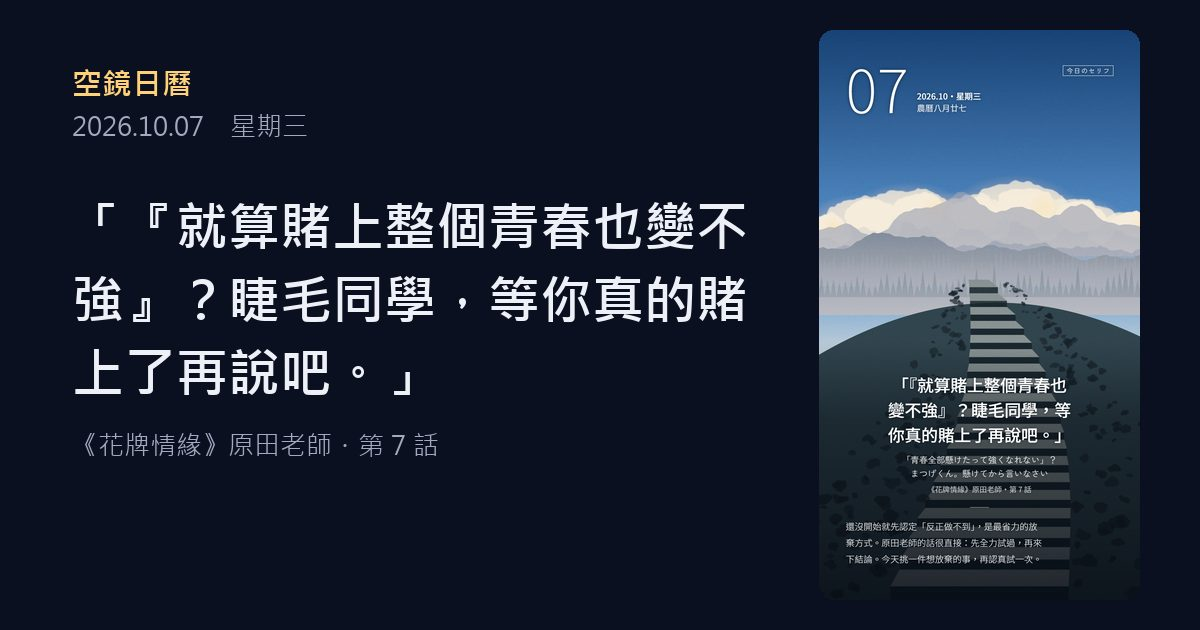
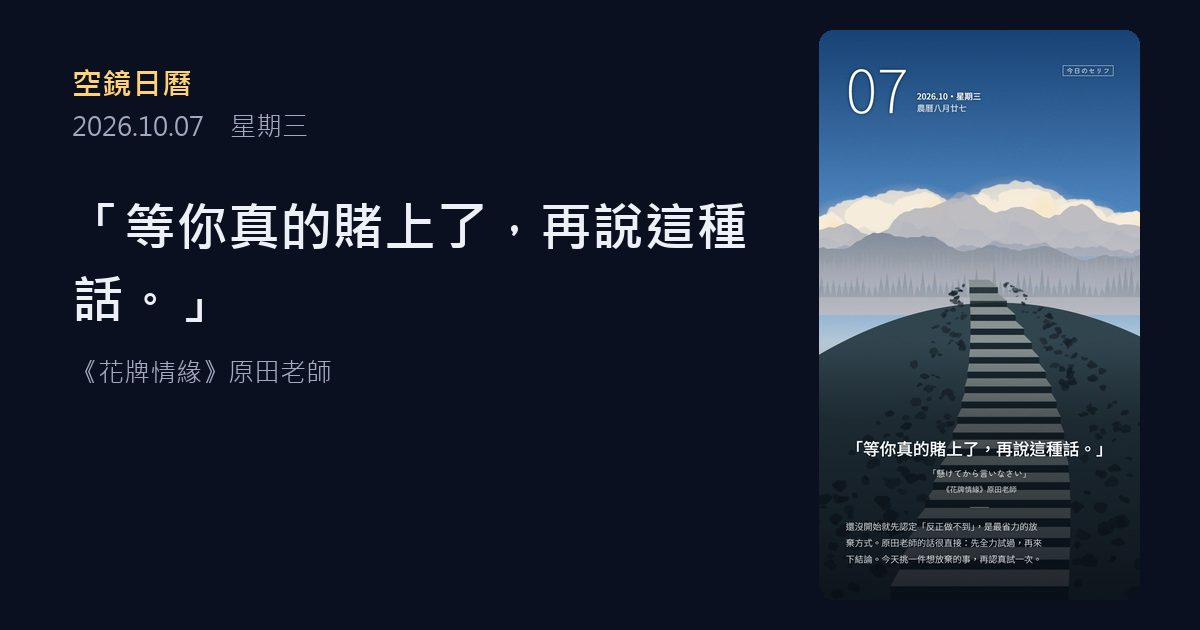
其他出處 58 則上網查證：修正 5 則（話數、漏字、兩人台詞），1 則只留查證得到的部分，補 5 則話數

diff --git a/d/20270115.html b/d/20270115.html
@@ -4,11 +4,11 @@
 <meta charset="utf-8">
 <meta name="viewport" content="width=device-width, initial-scale=1">
 <title>空鏡日曆・1月15日</title>
-<meta name="description" content="「我不會一直喊『不是那邊、不是那邊』，而是一直喊『這邊、這邊』。」── 《ARIA（水星領航員）》艾莉西亞">
+<meta name="description" content="「我不會一直喊『不是那邊、不是那邊』，而是一直喊『這邊、這邊』。」── 《ARIA（水星領航員）》艾莉西亞・ARIA The ORIGINATION 第 6 話">
 <meta property="og:type" content="article">
 <meta property="og:site_name" content="空鏡日曆">
 <meta property="og:title" content="空鏡日曆・1月15日">
-<meta property="og:description" content="「我不會一直喊『不是那邊、不是那邊』，而是一直喊『這邊、這邊』。」── 《ARIA（水星領航員）》艾莉西亞">
+<meta property="og:description" content="「我不會一直喊『不是那邊、不是那邊』，而是一直喊『這邊、這邊』。」── 《ARIA（水星領航員）》艾莉西亞・ARIA The ORIGINATION 第 6 話">
 <meta property="og:url" content="https://eaglechu-hub.github.io/anime-quote-calendar/d/20270115.html">
 <meta property="og:image" content="https://eaglechu-hub.github.io/anime-quote-calendar/og/20270115.jpg">
 <meta property="og:image:width" content="1200">

diff --git a/d/20261022.html b/d/20261022.html
@@ -4,11 +4,11 @@
 <meta charset="utf-8">
 <meta name="viewport" content="width=device-width, initial-scale=1">
 <title>空鏡日曆・10月22日</title>
-<meta name="description" content="「一個人撐不下去的時候，就去依靠別人。不然，其實也沒有人能依靠你。」── 《3月的獅子》林田老師・第 27 話">
+<meta name="description" content="「一個人撐不下去的時候，就去依靠別人。不然，其實也沒有人能依靠你。」── 《3月的獅子》林田老師・第 16 話">
 <meta property="og:type" content="article">
 <meta property="og:site_name" content="空鏡日曆">
 <meta property="og:title" content="空鏡日曆・10月22日">
-<meta property="og:description" content="「一個人撐不下去的時候，就去依靠別人。不然，其實也沒有人能依靠你。」── 《3月的獅子》林田老師・第 27 話">
+<meta property="og:description" content="「一個人撐不下去的時候，就去依靠別人。不然，其實也沒有人能依靠你。」── 《3月的獅子》林田老師・第 16 話">
 <meta property="og:url" content="https://eaglechu-hub.github.io/anime-quote-calendar/d/20261022.html">
 <meta property="og:image" content="https://eaglechu-hub.github.io/anime-quote-calendar/og/20261022.jpg">
 <meta property="og:image:width" content="1200">

diff --git a/d/20261130.html b/d/20261130.html
@@ -4,11 +4,11 @@
 <meta charset="utf-8">
 <meta name="viewport" content="width=device-width, initial-scale=1">
 <title>空鏡日曆・11月30日</title>
-<meta name="description" content="「一急就會很快累壞喔。比起趕路，守住自己的步調更重要。」── 《前進吧！登山少女》倉上日向">
+<meta name="description" content="「一急就會很快累壞喔。比起趕路，守住自己的步調更重要。」── 《前進吧！登山少女》倉上日向・第 1 季 第 8 話">
 <meta property="og:type" content="article">
 <meta property="og:site_name" content="空鏡日曆">
 <meta property="og:title" content="空鏡日曆・11月30日">
-<meta property="og:description" content="「一急就會很快累壞喔。比起趕路，守住自己的步調更重要。」── 《前進吧！登山少女》倉上日向">
+<meta property="og:description" content="「一急就會很快累壞喔。比起趕路，守住自己的步調更重要。」── 《前進吧！登山少女》倉上日向・第 1 季 第 8 話">
 <meta property="og:url" content="https://eaglechu-hub.github.io/anime-quote-calendar/d/20261130.html">
 <meta property="og:image" content="https://eaglechu-hub.github.io/anime-quote-calendar/og/20261130.jpg">
 <meta property="og:image:width" content="1200">

diff --git a/d/20261122.html b/d/20261122.html
@@ -4,11 +4,11 @@
 <meta charset="utf-8">
 <meta name="viewport" content="width=device-width, initial-scale=1">
 <title>空鏡日曆・11月22日</title>
-<meta name="description" content="「我們總有一天能再一起看櫻花。我和他都毫不懷疑地這麼相信著。」── 《秒速5公分》篠原明里">
+<meta name="description" content="「我們總有一天能再一起看櫻花。我和他都毫不懷疑地這麼相信著。」── 《秒速5公分》遠野貴樹、篠原明里">
 <meta property="og:type" content="article">
 <meta property="og:site_name" content="空鏡日曆">
 <meta property="og:title" content="空鏡日曆・11月22日">
-<meta property="og:description" content="「我們總有一天能再一起看櫻花。我和他都毫不懷疑地這麼相信著。」── 《秒速5公分》篠原明里">
+<meta property="og:description" content="「我們總有一天能再一起看櫻花。我和他都毫不懷疑地這麼相信著。」── 《秒速5公分》遠野貴樹、篠原明里">
 <meta property="og:url" content="https://eaglechu-hub.github.io/anime-quote-calendar/d/20261122.html">
 <meta property="og:image" content="https://eaglechu-hub.github.io/anime-quote-calendar/og/20261122.jpg">
 <meta property="og:image:width" content="1200">

diff --git a/d/20261117.html b/d/20261117.html
@@ -4,11 +4,11 @@
 <meta charset="utf-8">
 <meta name="viewport" content="width=device-width, initial-scale=1">
 <title>空鏡日曆・11月17日</title>
-<meta name="description" content="「如果戀愛能讓女人變美，那它究竟是什麼樣的藥呢？」── 《藥師少女的獨語》貓貓・第 4 話">
+<meta name="description" content="「如果戀愛能讓女人變美，那它究竟是什麼樣的藥呢？」── 《藥師少女的獨語》貓貓・第 3 話">
 <meta property="og:type" content="article">
 <meta property="og:site_name" content="空鏡日曆">
 <meta property="og:title" content="空鏡日曆・11月17日">
-<meta property="og:description" content="「如果戀愛能讓女人變美，那它究竟是什麼樣的藥呢？」── 《藥師少女的獨語》貓貓・第 4 話">
+<meta property="og:description" content="「如果戀愛能讓女人變美，那它究竟是什麼樣的藥呢？」── 《藥師少女的獨語》貓貓・第 3 話">
 <meta property="og:url" content="https://eaglechu-hub.github.io/anime-quote-calendar/d/20261117.html">
 <meta property="og:image" content="https://eaglechu-hub.github.io/anime-quote-calendar/og/20261117.jpg">
 <meta property="og:image:width" content="1200">

diff --git a/d/20270118.html b/d/20270118.html
@@ -4,11 +4,11 @@
 <meta charset="utf-8">
 <meta name="viewport" content="width=device-width, initial-scale=1">
 <title>空鏡日曆・1月18日</title>
-<meta name="description" content="「這樣的奇蹟，大概一輩子不會再有了。絕對不能浪費！」── 《孤獨搖滾！》後藤一里">
+<meta name="description" content="「這樣的奇蹟，大概一輩子不會再有了。絕對不能浪費！」── 《孤獨搖滾！》後藤一里・第 1 話">
 <meta property="og:type" content="article">
 <meta property="og:site_name" content="空鏡日曆">
 <meta property="og:title" content="空鏡日曆・1月18日">
-<meta property="og:description" content="「這樣的奇蹟，大概一輩子不會再有了。絕對不能浪費！」── 《孤獨搖滾！》後藤一里">
+<meta property="og:description" content="「這樣的奇蹟，大概一輩子不會再有了。絕對不能浪費！」── 《孤獨搖滾！》後藤一里・第 1 話">
 <meta property="og:url" content="https://eaglechu-hub.github.io/anime-quote-calendar/d/20270118.html">
 <meta property="og:image" content="https://eaglechu-hub.github.io/anime-quote-calendar/og/20270118.jpg">
 <meta property="og:image:width" content="1200">

diff --git a/d/20261007.html b/d/20261007.html
@@ -4,11 +4,11 @@
 <meta charset="utf-8">
 <meta name="viewport" content="width=device-width, initial-scale=1">
 <title>空鏡日曆・10月7日</title>
-<meta name="description" content="「『就算賭上整個青春也變不強』？睫毛同學，等你真的賭上了再說吧。」── 《花牌情緣》原田老師・第 7 話">
+<meta name="description" content="「等你真的賭上了，再說這種話。」── 《花牌情緣》原田老師">
 <meta property="og:type" content="article">
 <meta property="og:site_name" content="空鏡日曆">
 <meta property="og:title" content="空鏡日曆・10月7日">
-<meta property="og:description" content="「『就算賭上整個青春也變不強』？睫毛同學，等你真的賭上了再說吧。」── 《花牌情緣》原田老師・第 7 話">
+<meta property="og:description" content="「等你真的賭上了，再說這種話。」── 《花牌情緣》原田老師">
 <meta property="og:url" content="https://eaglechu-hub.github.io/anime-quote-calendar/d/20261007.html">
 <meta property="og:image" content="https://eaglechu-hub.github.io/anime-quote-calendar/og/20261007.jpg">
 <meta property="og:image:width" content="1200">

diff --git a/d/20261001.html b/d/20261001.html
@@ -4,11 +4,11 @@
 <meta charset="utf-8">
 <meta name="viewport" content="width=device-width, initial-scale=1">
 <title>空鏡日曆・10月1日</title>
-<meta name="description" content="「你可以成為英雄。」── 《我的英雄學院》歐爾麥特・第 3 話">
+<meta name="description" content="「你可以成為英雄。」── 《我的英雄學院》歐爾麥特・第 2 話">
 <meta property="og:type" content="article">
 <meta property="og:site_name" content="空鏡日曆">
 <meta property="og:title" content="空鏡日曆・10月1日">
-<meta property="og:description" content="「你可以成為英雄。」── 《我的英雄學院》歐爾麥特・第 3 話">
+<meta property="og:description" content="「你可以成為英雄。」── 《我的英雄學院》歐爾麥特・第 2 話">
 <meta property="og:url" content="https://eaglechu-hub.github.io/anime-quote-calendar/d/20261001.html">
 <meta property="og:image" content="https://eaglechu-hub.github.io/anime-quote-calendar/og/20261001.jpg">
 <meta property="og:image:width" content="1200">

diff --git a/d/20261008.html b/d/20261008.html
@@ -4,11 +4,11 @@
 <meta charset="utf-8">
 <meta name="viewport" content="width=device-width, initial-scale=1">
 <title>空鏡日曆・10月8日</title>
-<meta name="description" content="「跟絕望再當好朋友一點嘛。」── 《少女終末旅行》尤莉">
+<meta name="description" content="「跟絕望再當好朋友一點嘛。」── 《少女終末旅行》尤莉・第 1 話">
 <meta property="og:type" content="article">
 <meta property="og:site_name" content="空鏡日曆">
 <meta property="og:title" content="空鏡日曆・10月8日">
-<meta property="og:description" content="「跟絕望再當好朋友一點嘛。」── 《少女終末旅行》尤莉">
+<meta property="og:description" content="「跟絕望再當好朋友一點嘛。」── 《少女終末旅行》尤莉・第 1 話">
 <meta property="og:url" content="https://eaglechu-hub.github.io/anime-quote-calendar/d/20261008.html">
 <meta property="og:image" content="https://eaglechu-hub.github.io/anime-quote-calendar/og/20261008.jpg">
 <meta property="og:image:width" content="1200">

diff --git a/sw.js b/sw.js
@@ -1,6 +1,6 @@
 // 離線快取：網頁、程式與每月內容用「先網路、失敗再用快取」；圖片、字型等素材用「先快取、背景更新」。
 // 改版時把 VERSION 加一，舊快取會自動清掉。
-const VERSION = 'anime-calendar-v6';
+const VERSION = 'anime-calendar-v7';
 const CORE = [
   './', 'index.html', 'manifest.webmanifest', 'css/style.css',
   'js/vendor/lunar.js', 'js/lunar-info.js', 'js/scene.js', 'js/card.js', 'js/export.js', 'js/app.js', 'js/remind.js',
